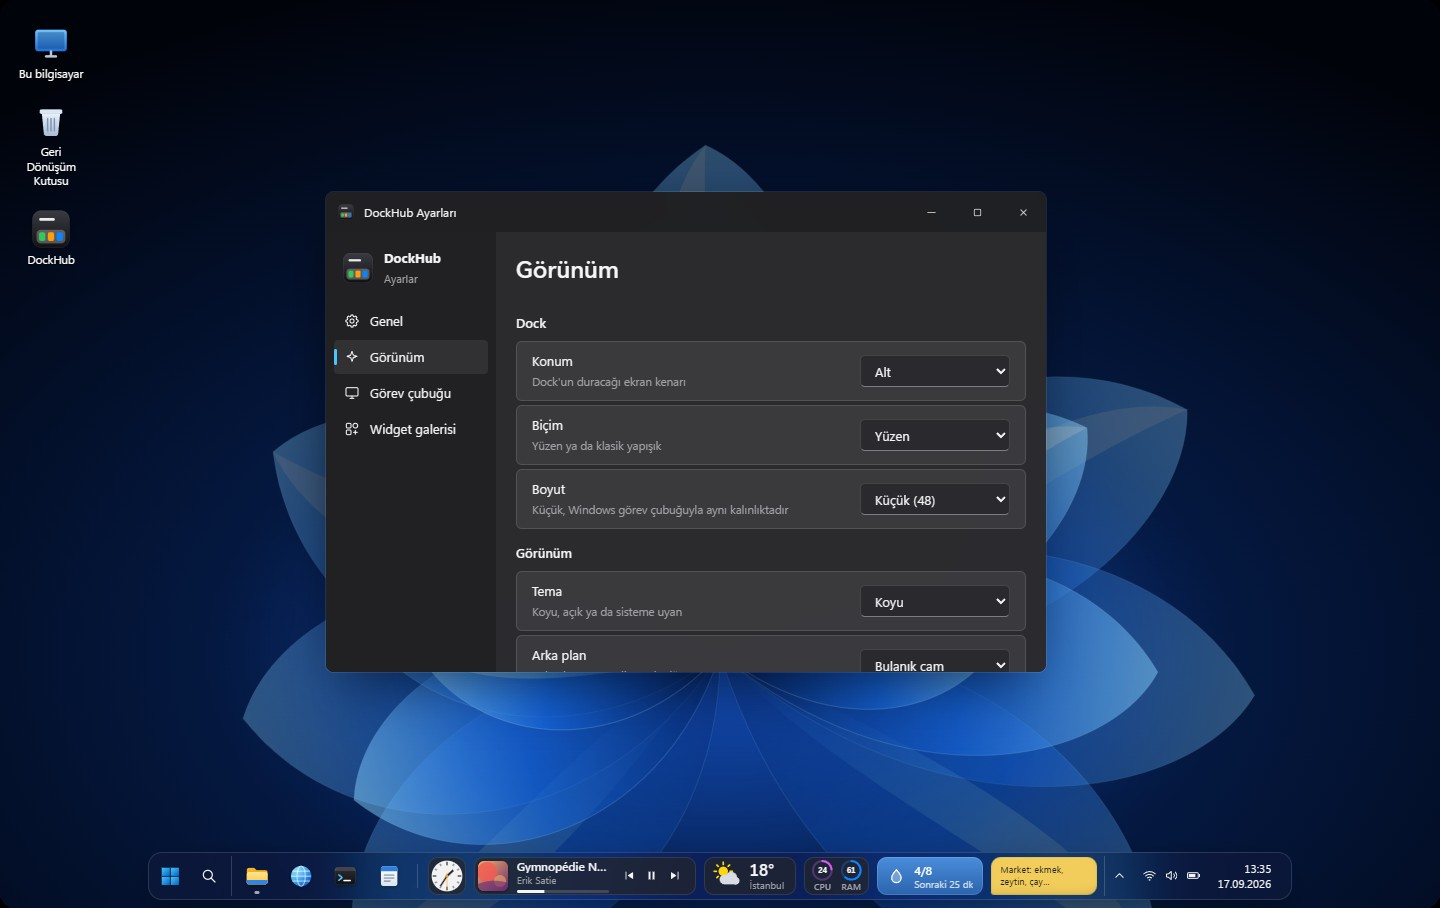
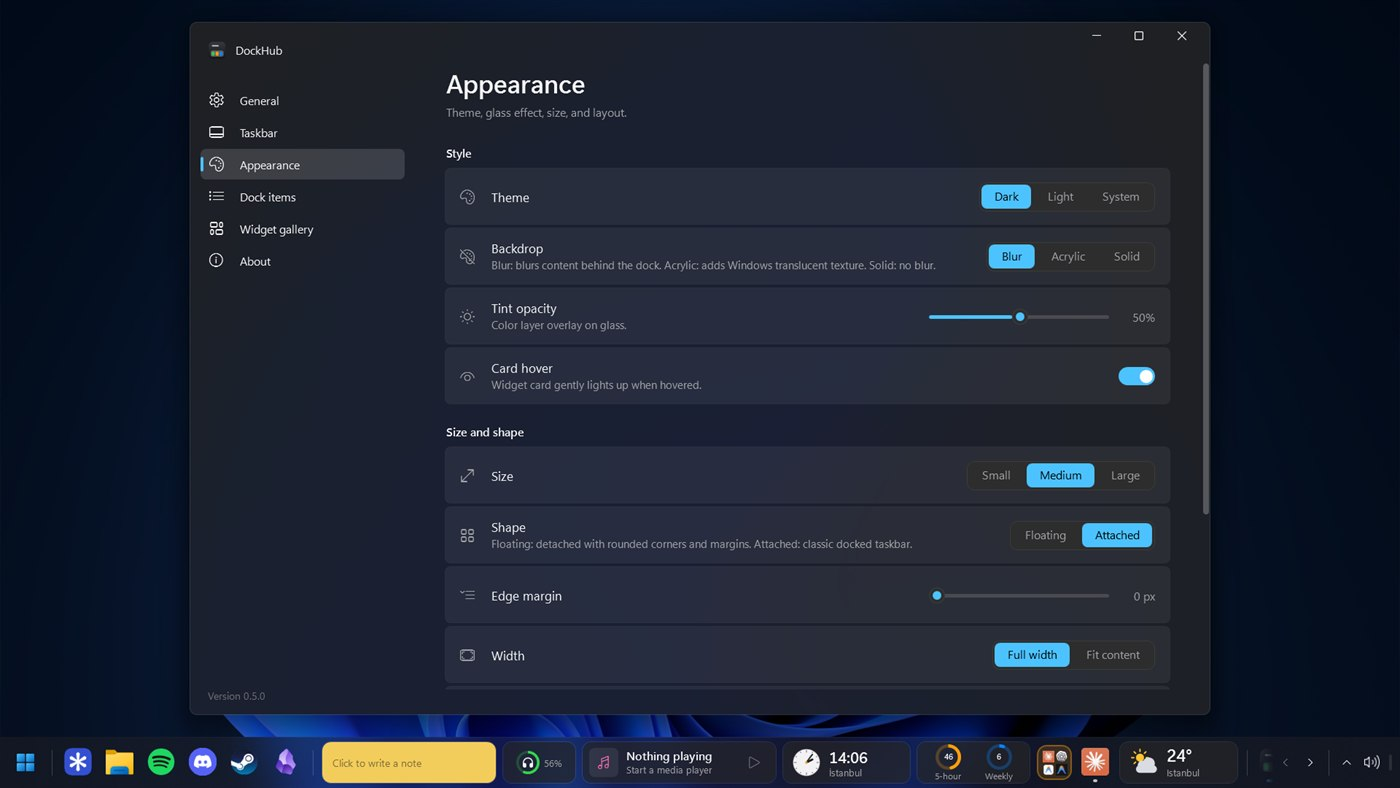
docs: replace demo renders with real app screenshots
README showed images rendered from the web demo and documented a widget set two releases old. Swaps in 15 captures of the running app (folders, live window previews, Jump Lists, widget gallery, settings, vertical light dock, Explorer pin) and drops the stale note about the interface being Turkish.

diff --git a/README.md b/README.md
@@ -24,14 +24,14 @@ No admin rights. Your original taskbar always comes back.
 
 <br>
 
-<img src="docs/images/dock-overview.jpg" alt="DockHub floating at the bottom of a Windows 11 desktop with apps, clock, media, weather, CPU and memory rings, water tracker and a sticky note" width="100%">
+<img src="docs/images/dock-overview.jpg" alt="DockHub running on a Windows 11 desktop with pinned apps, a sticky note, headset battery, media controls, clock, AI usage rings, an app folder and weather" width="100%">
 
 </div>
 
 <br>
 
 > [!NOTE]
-> The screenshots in this README are rendered from the [interactive web demo](https://sametgurtuna.github.io/dockhub-website/), which recreates DockHub's interface in the browser.
+> Every screenshot below is a real capture of DockHub running on Windows 11. To try it without installing, open the [interactive web demo](https://sametgurtuna.github.io/dockhub-website/).
 
 ## Contents
 
@@ -56,31 +56,41 @@ No admin rights. Your original taskbar always comes back.
 ## Highlights
 
 - **Replaces the taskbar, keeps Windows intact.** The Start button opens the real Windows Start menu, and the Windows key, search, notification center and quick settings work exactly as before.
-- **15 widgets, many layouts each.** Clocks, timers, reminders, sticky notes, now playing, system monitors and weather. Add the same widget as many times as you like; every copy keeps its own settings.
-- **Fluent to the core.** Blurred glass, Acrylic or solid backgrounds, light and dark themes, and your Windows accent color. Animations run at your display's refresh rate.
+- **19 widgets, many layouts each.** Clocks, timers, reminders, sticky notes, now playing, audio, system monitors, AI usage and weather. Add the same widget as many times as you like; every copy keeps its own settings.
+- **Live app buttons.** Hover for a real window thumbnail, right-click for a Jump List, watch badge counts and progress, and drag apps together into a folder.
+- **Fluent to the core.** Blurred glass, Acrylic or solid backgrounds, light and dark themes, and your Windows accent color. Popups, folders and widgets animate with macOS-inspired genie, zoom and fan effects, all at your display's refresh rate.
 - **Any edge, any shape.** Bottom, top, left or right; floating or attached; small, medium or large. On vertical docks, widgets collapse into compact tiles.
 - **Safe by design.** No admin rights. When DockHub exits, crashes, or the session ends, the Windows taskbar and its tray icons come back.
 - **Starts with Windows.** The installer enables autostart by default, and you can turn it off at any time.
+- **A global hotkey** to summon the dock instantly from anywhere.
 
 ## Screenshots
 
 <table>
   <tr>
-    <td width="50%"><img src="docs/images/start-menu.jpg" alt="Start menu with search, pinned apps and recommendations"><br><sub><b>Start menu.</b> Opens from the dock's Start button.</sub></td>
-    <td width="50%"><img src="docs/images/widget-panel.jpg" alt="Weather widget panel with hourly and five day forecast"><br><sub><b>Widget panels.</b> Click any widget to see the full view.</sub></td>
+    <td width="50%"><img src="docs/images/groups-folder.jpg" alt="An app folder named AI opened from the dock, showing Claude, Codex and Antigravity with a color palette"><br><sub><b>Folders.</b> Drag items together, then click to fan them out. Rename and recolor from the popup.</sub></td>
+    <td width="50%"><img src="docs/images/window-preview.jpg" alt="Live thumbnail preview of a File Explorer window above the dock"><br><sub><b>Live window previews.</b> Hover a running app for a real thumbnail with a close button.</sub></td>
   </tr>
   <tr>
-    <td width="50%"><img src="docs/images/light-vertical.jpg" alt="Light theme with a vertical dock on the left edge and the media panel open"><br><sub><b>Light theme, vertical dock.</b> Widgets become compact tiles.</sub></td>
-    <td width="50%"><img src="docs/images/widget-gallery.jpg" alt="Widget gallery flyout with categories and add buttons"><br><sub><b>Widget gallery.</b> Pick a widget and a layout, and it grows into the dock.</sub></td>
+    <td width="50%"><img src="docs/images/jump-list.jpg" alt="Jump list for File Explorer with recent folders and app actions"><br><sub><b>Jump Lists.</b> Right-click an app for its recent items and tasks.</sub></td>
+    <td width="50%"><img src="docs/images/widget-panel.jpg" alt="Clock widget panel showing seconds, the date and the time zone"><br><sub><b>Widget panels.</b> Click any widget for the full view.</sub></td>
+  </tr>
+  <tr>
+    <td width="50%"><img src="docs/images/start-menu.jpg" alt="The Windows 11 Start menu opened from the dock's Start button"><br><sub><b>Start menu.</b> The real Windows Start menu, opened from the dock.</sub></td>
+    <td width="50%"><img src="docs/images/light-vertical.jpg" alt="Light theme with a vertical dock on the left edge showing compact widget tiles"><br><sub><b>Light theme, vertical dock.</b> Widgets become compact tiles.</sub></td>
+  </tr>
+  <tr>
+    <td width="50%"><img src="docs/images/widget-gallery.jpg" alt="Widget gallery in the settings window with live previews and add buttons"><br><sub><b>Widget gallery.</b> Live previews; press + and the widget grows into the dock.</sub></td>
+    <td width="50%"><img src="docs/images/settings.jpg" alt="DockHub settings window showing appearance options"><br><sub><b>Settings.</b> A Mica window for every option.</sub></td>
   </tr>
   <tr>
     <td width="50%"><img src="docs/images/explorer-pin.jpg" alt="File Explorer context menu with the Pin to DockHub command"><br><sub><b>Pin from File Explorer.</b> Right-click any .exe or shortcut.</sub></td>
-    <td width="50%"><img src="docs/images/settings.jpg" alt="DockHub settings window with appearance options"><br><sub><b>Settings.</b> A Mica window for every option.</sub></td>
+    <td width="50%"><img src="docs/images/dock-menu.jpg" alt="Dock context menu with add widget, pin application, create group and position commands"><br><sub><b>Dock menu.</b> Right-click empty space for widgets, groups and position.</sub></td>
   </tr>
 </table>
 
 <p align="center">
-  <img src="docs/images/widgets-grid.jpg" alt="Grid of live widget previews: clock, world clock, stopwatch, focus timer, countdown, alarm, time progress, hydration and reminders" width="100%">
+  <img src="docs/images/widgets-grid.jpg" alt="Widget gallery previews for network speed, status rings, recycle bin, device batteries, weather and AI usage" width="100%">
 </p>
 
 ## Installation
@@ -113,11 +123,16 @@ The installer is self-contained. It ships the .NET runtime, so there is nothing 
 - **Running apps**
   - Pinned apps are matched with their open windows, and windows of the same app are grouped into one button.
   - Other open apps are listed after a separator.
-  - Active, attention-requesting and progress states (for example, download bars) are shown.
-  - Clicking brings a window to the front, minimizes it, or cycles through the app's windows. Shift+click or middle-click opens a new window. Right-click shows the window list plus *Run as administrator*, *Open file location*, *Pin/Unpin* and *Close all windows*.
+  - Active, attention-requesting and progress states (for example, download bars) are shown, along with taskbar-style badge counts.
+  - Hovering a button shows a live thumbnail preview of its window(s), like the Windows taskbar.
+  - Right-click shows the window list, the app's Jump List (recent files and tasks, when the app provides one), plus *Run as administrator*, *Open file location*, *Pin/Unpin* and *Close all windows*.
+  - Clicking brings a window to the front, minimizes it, or cycles through the app's windows. Shift+click or middle-click opens a new window.
   - Pin a running app by dragging it into the dock or with the *Pin to DockHub* command.
   - **Pin from File Explorer:** right-click an `.exe` or shortcut and choose *Pin to DockHub*. On Windows 11 the command appears under *Show more options* (or Shift+right-click), because the new compact menu only lists commands from packaged apps.
+  - **Groups (folders):** drag an app or widget onto another to create a folder. Folders can be renamed, given a custom accent color, and open with a staggered fan animation.
 - **System tray.** App icons live in the dock and receive clicks, right-clicks and hover. Hidden icons sit in the overflow menu, and you choose which icons are always visible. Your Windows tray preferences are imported on first launch.
+
+  <img src="docs/images/tray-overflow.jpg" alt="Tray overflow flyout above the dock showing hidden tray icons" width="46%">
 - **Clock.** Clicking it opens the notification center. Its context menu offers quick settings, date and time settings, and seconds and date options. A thin strip at the far end shows the desktop.
 - **Reserved screen space.** An invisible AppBar reserves the dock's area, so maximized windows never slide under it.
 
@@ -133,7 +148,8 @@ The installer is self-contained. It ships the .NET runtime, so there is nothing 
 - **Hide in full screen:** the dock steps aside for games, videos and F11 mode.
 - **Multi-monitor and DPI:** choose the monitor for the dock; per-monitor DPI (PerMonitorV2) is supported.
 - **Drag and drop:** reorder apps, widgets and separators on the dock. Dropping an `.exe` or `.lnk` from File Explorer pins it.
-- **Smooth motion:** scrolling, auto-hide and flyouts use frame-synchronized transitions at your display's refresh rate, including above 60 Hz. Hover highlights fade in, app icons grow slightly under the pointer, and new items grow into place.
+- **Smooth motion:** scrolling, auto-hide and flyouts use frame-synchronized transitions at your display's refresh rate, including above 60 Hz. Hover highlights fade in, app icons grow slightly under the pointer, new items grow into place, and widget/folder popups open with macOS-style genie, zoom and shrink animations.
+- **Global hotkey:** summon the dock or bring it to the front from anywhere, configurable in *Settings › General*.
 - **Menus:** context menus and widget panels always open outside the dock, next to the pointer or the item.
 - **Dock menu** (right-click an empty area): Add widget, Pin app, Add separator, Task Manager, Quick settings, Auto-hide, Hide Windows taskbar, Position, Settings, Exit.
 
@@ -154,12 +170,20 @@ Every widget can be added more than once, and each copy has its own settings. Ch
 | | **Reminders** | List, Next, Count | Toast notifications with a "Snooze 10 min" action. |
 | Notes | **Sticky note** | Single | A preview lives in the dock; clicking opens a large paper in six colors with adjustable text size. Saves automatically. |
 | Media | **Now playing** | Full, Compact, Mini | Windows media controls (SMTC): Spotify, browsers, VLC and more. Cover art, progress, previous, play and next. |
+| | **Audio device** | Compact, Slider | Switch between output devices, scroll to adjust volume, click to mute. |
 | System | **CPU and memory** | Numbers, Rings, Bars | Refresh interval from 1 to 10 seconds. |
 | | **Network** | Numbers only, With graph | Live download and upload speed. |
 | | **Status** | Rings, Percentage ring, Icons only | Battery, disk, memory and processor. |
+| | **Recycle bin** | Icon only, Detailed | Drag files onto it to delete them, click to open, right-click to empty. |
+| | **Device batteries** | Single device, Multiple devices | Battery levels for Bluetooth and USB peripherals (wireless headsets, mice, keyboards). |
+| AI | **AI usage** | Numbers, Rings, Bars | Claude Code 5-hour and weekly usage limits, refreshed in the background every 5 minutes. |
 | Weather | **Weather** | Current, Condition, Hourly forecast | [Open-Meteo](https://open-meteo.com/), no API key needed. Uses a city or your Windows location. |
 
-To add a widget, press **+** next to its preview in *Settings › Widget gallery*, or right-click an empty area of the dock and choose **Add widget**.
+To add a widget, press **+** next to its preview in *Settings › Widget gallery*, or right-click an empty area of the dock and choose **Add widget**. Right-clicking a widget on the dock gives it its own actions, layouts and settings.
+
+<p align="center">
+  <img src="docs/images/widget-menu.jpg" alt="Right-click menu of the hydration widget with drink a glass, reset today, appearance and widget settings" width="62%">
+</p>
 
 ## How the taskbar replacement works
 
@@ -174,6 +198,10 @@ With *Settings › General › Replace the taskbar* set to **DockHub** (the defa
 5. An invisible, click-through AppBar reserves the dock's thickness at the screen edge.
 
 In **Both** mode, the Windows taskbar is left untouched and the tray is not taken over; the dock sits above the taskbar. Switching modes restarts the app.
+
+<p align="center">
+  <img src="docs/images/settings-general.jpg" alt="DockHub settings General page with the replace taskbar switch, autostart options and the restore taskbar button" width="88%">
+</p>
 
 ### The Windows taskbar always comes back
 
@@ -346,20 +374,23 @@ src/CustomDock/              Produces DockHub.exe
 │   ├── TaskbarController.cs   Hiding and restoring the Windows taskbar, crash recovery
 │   ├── StartMenuLauncher.cs   Start menu through IImmersiveLauncher
 │   ├── RunningAppsService.cs  Grouping windows by app
+│   ├── JumpListService.cs     Reads an app's Jump List (recent/pinned tasks) for the right-click menu
 │   └── AppKeys.cs, TrayPreferences.cs, DefaultItems.cs
 ├── Services/                Clock, system and network monitors, media (SMTC), weather (with WeatherHub cache),
 │                            notifications, reminders, hydration, app launcher
 ├── Dock/                    DockWindow (zones, scrolling, drag and drop, position, auto-hide), AppButton,
-│                            WidgetItemView (card, vertical tile and panel), TrayIconView, SpaceReserver,
-│                            EdgeTriggerWindow, TrayIconManager
+│                            WidgetItemView (card, vertical tile and panel), GroupItemView (folders),
+│                            WindowPreviewWindow (live thumbnails), GenieEffectHelper, PopupAnimationHelper,
+│                            TrayIconView, SpaceReserver, EdgeTriggerWindow, TrayIconManager
 ├── Controls/                WidgetCard, DockZonesPanel, RingGauge, AnalogClock, WeatherIcon, TickBar, Sparkline,
 │                            Glyphs, SettingRow
 ├── Settings/                Settings window (Mica), widget gallery, app picker, widget settings templates
 ├── Themes/                  Dark.xaml, Light.xaml (colors), Controls.xaml (styles)
 └── Widgets/                 WidgetBase, WidgetRegistry, CompactTile and one folder per widget
     ├── Clock/  WorldClock/  Timers/ (stopwatch, focus, countdown, alarm)  TimeProgress/
-    ├── Hydration/  Reminders/  Notes/  Media/
-    └── System/ (CPU and memory, network, status)  Weather/
+    ├── Hydration/  Reminders/  Notes/  Media/  Audio/
+    ├── System/ (CPU and memory, network, status)  RecycleBin/  BatteryDevices/
+    └── AI/ (AI usage)  Weather/
 tools/generate-icon.ps1      Renders Assets/DockHub.ico
 docs/images/                 README artwork
 ```
@@ -459,7 +490,7 @@ The widget then shows up in the gallery automatically. Other helpers:
 - **Window effects.** The blurred glass effect uses `SetWindowCompositionAttribute`, so it works even when the window is inactive. Corner rounding comes from DWM (about 8 px); corners stay square on Windows 10.
 - **Shell integration.** Windows 11's XAML tray items (network, volume and battery quick settings, language bar) belong to Explorer, so the dock shows the classic tray icons. The per-app taskbar progress indicator may not appear for some apps, because the Windows key stays with Explorer.
 - **Multiple monitors.** The dock appears on one monitor; the Windows taskbar is hidden on secondary monitors as well.
-- **Language.** The interface is currently in Turkish.
+- **Language.** The interface is English only; dates and numbers follow your Windows locale. The installer is available in English and Turkish.
 
 ## FAQ
 
